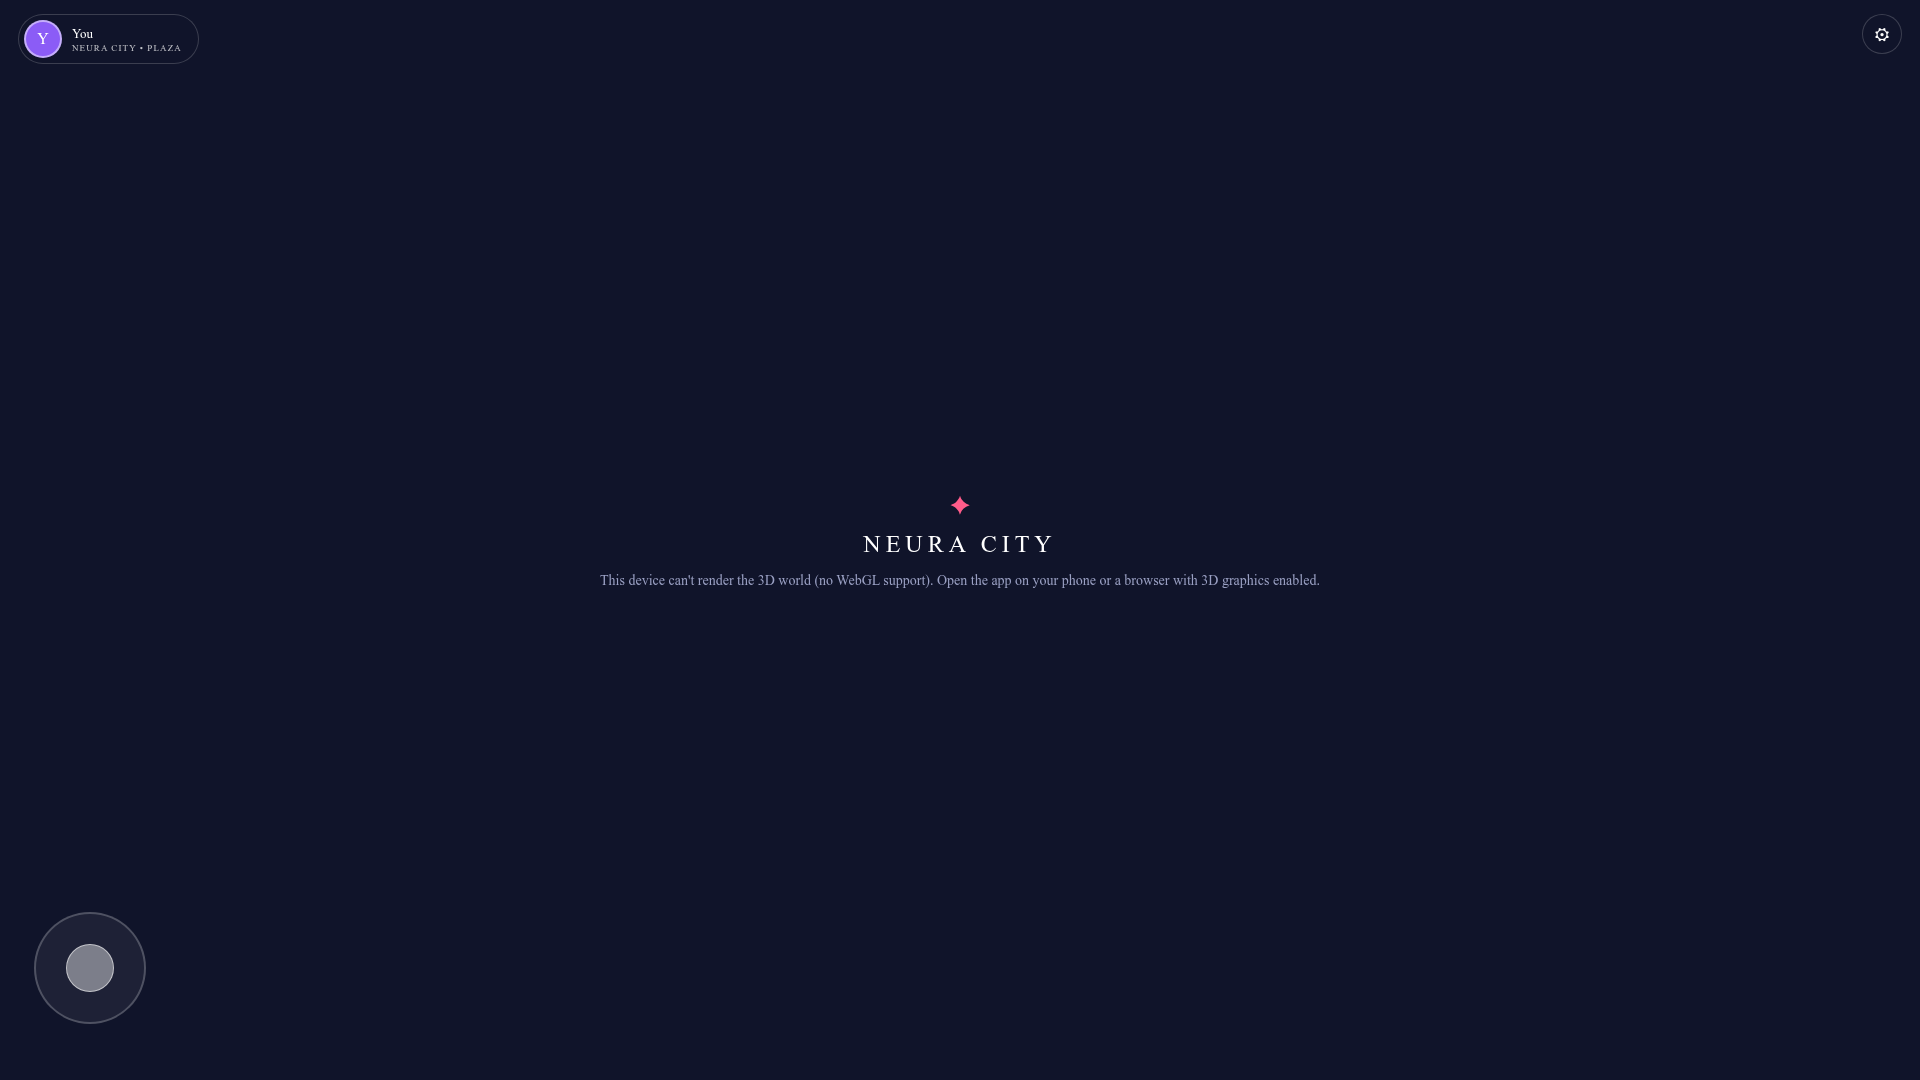
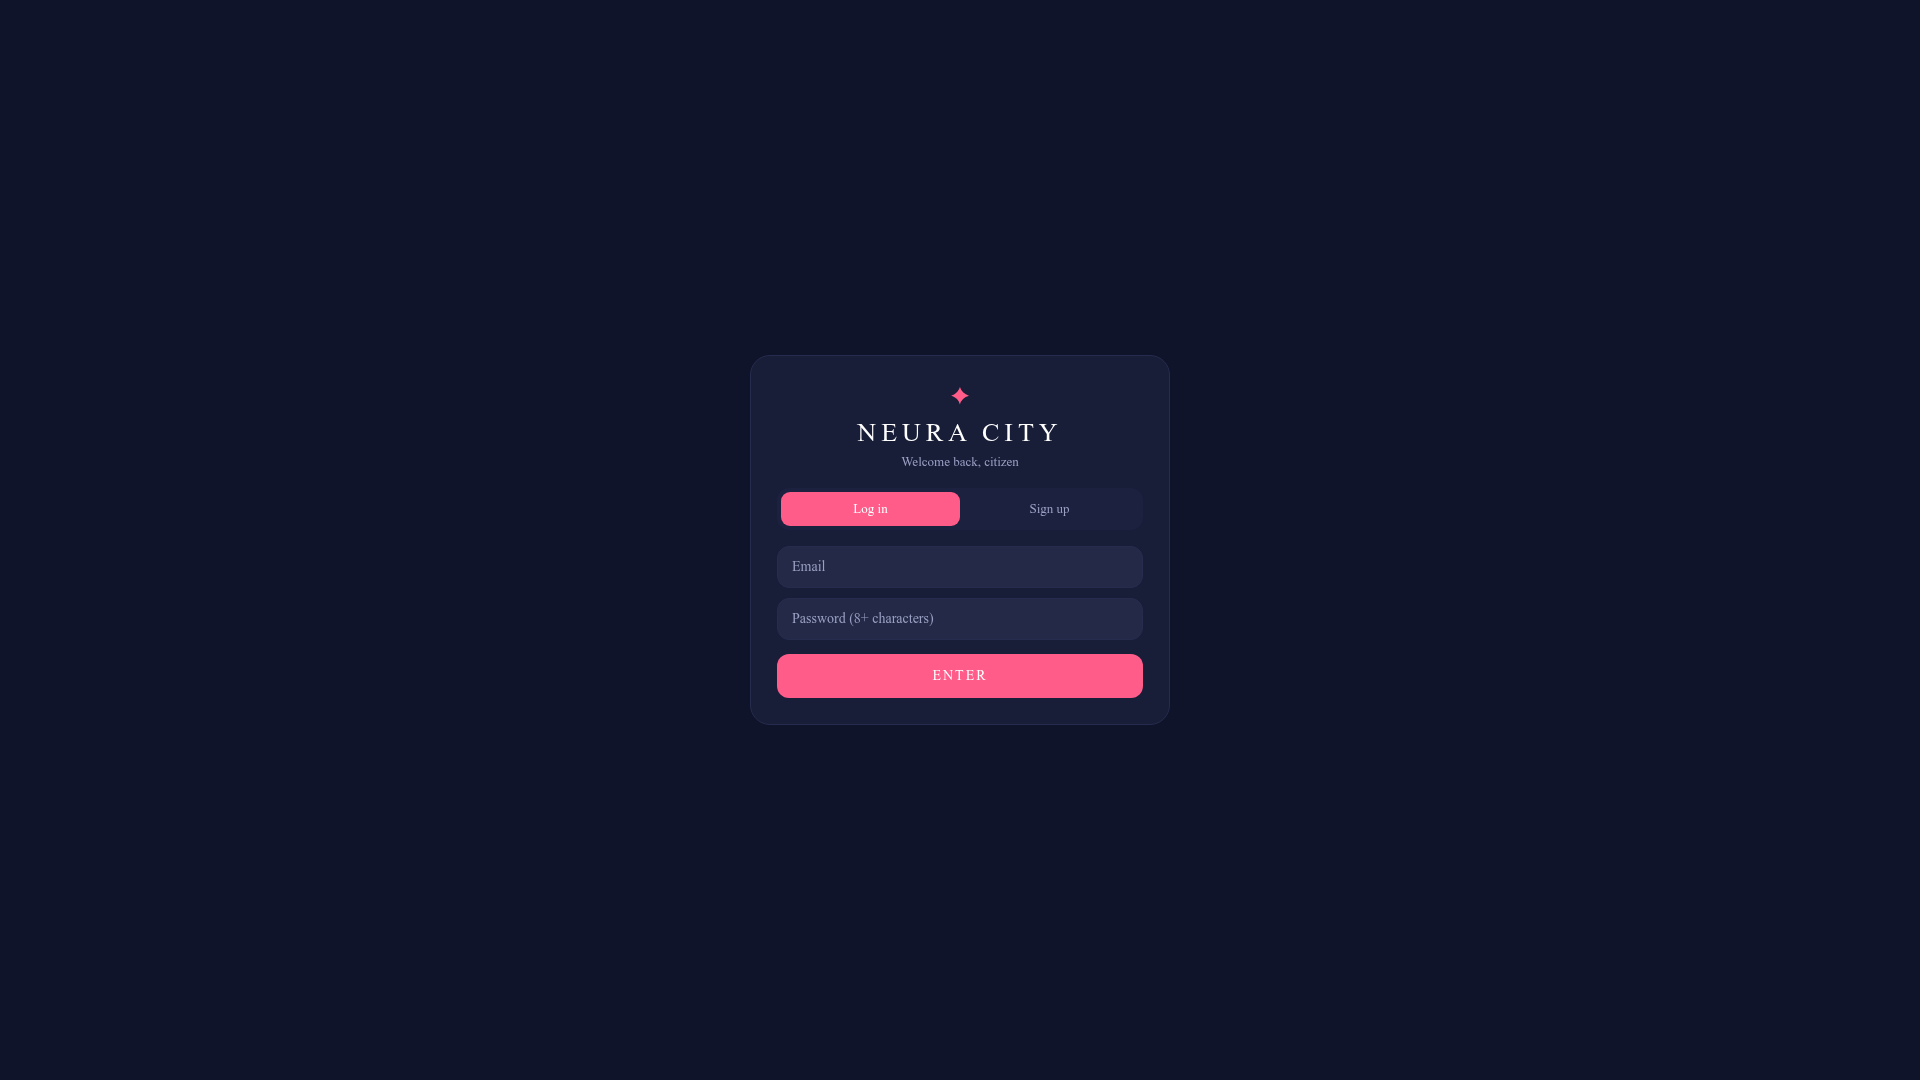
Task #26: harden /city route guard to validate session (redirect to lobby on 401)

Changed region(s): [[0.3125, 0.3972, 0.6875, 0.6722], [0.0, 0.0, 0.0625, 0.0611], [0.0312, 0.8556, 0.0625, 0.9167]]

diff --git a/artifacts/xbrainpro-mobile/app/city.tsx b/artifacts/xbrainpro-mobile/app/city.tsx
@@ -36,6 +36,7 @@ import {
 } from "@/game/worldMap";
 import WorldScene from "@/game/WorldScene";
 import { loadToken } from "@/lib/session";
+import { getCurrentUser } from "@workspace/api-client-react";
 
 export default function NeuraCity() {
   const router = useRouter();
@@ -56,13 +57,27 @@ export default function NeuraCity() {
 
   const userPickedAvatar = useRef(false);
 
-  // Route guard: no session → send back to the lobby/login gate.
-  // Prevents deep-linking straight into the game without an account.
+  // Route guard: no/invalid session → send back to the lobby/login gate.
+  // Prevents deep-linking straight into the game without a valid account.
   useEffect(() => {
     let cancelled = false;
-    loadToken().then((token) => {
-      if (!cancelled && !token) router.replace("/");
-    });
+    void (async () => {
+      const token = await loadToken();
+      if (cancelled) return;
+      if (!token) {
+        router.replace("/");
+        return;
+      }
+      try {
+        await getCurrentUser();
+      } catch (e) {
+        // Only bounce on an auth failure; keep the player in-city on transient
+        // network/server errors so a hiccup doesn't kick them out mid-session.
+        if (!cancelled && (e as { status?: number })?.status === 401) {
+          router.replace("/");
+        }
+      }
+    })();
     return () => {
       cancelled = true;
     };